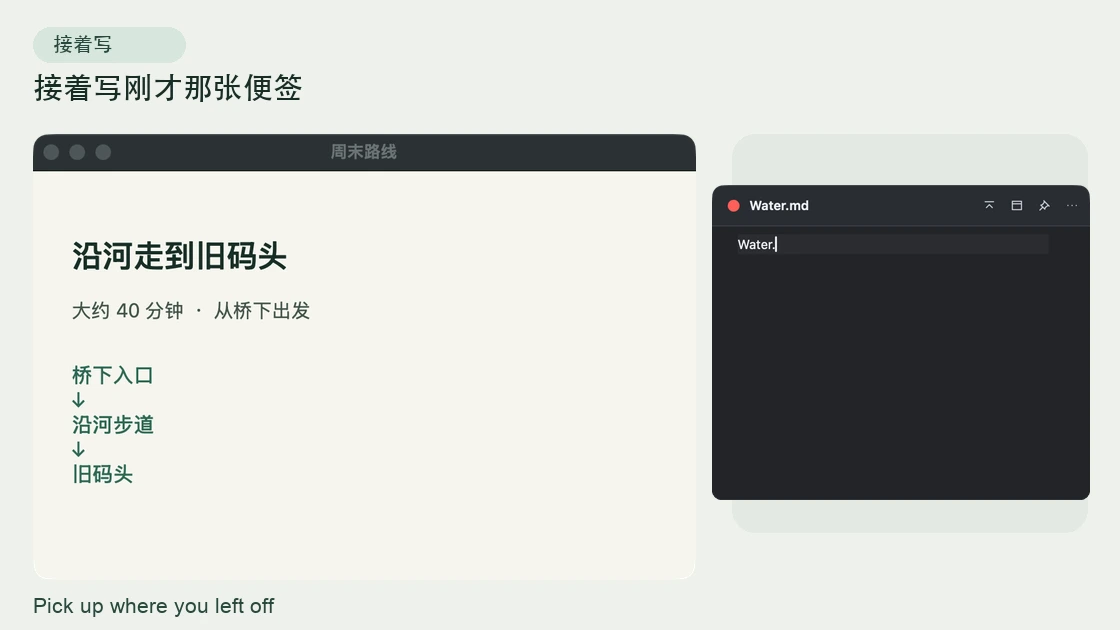
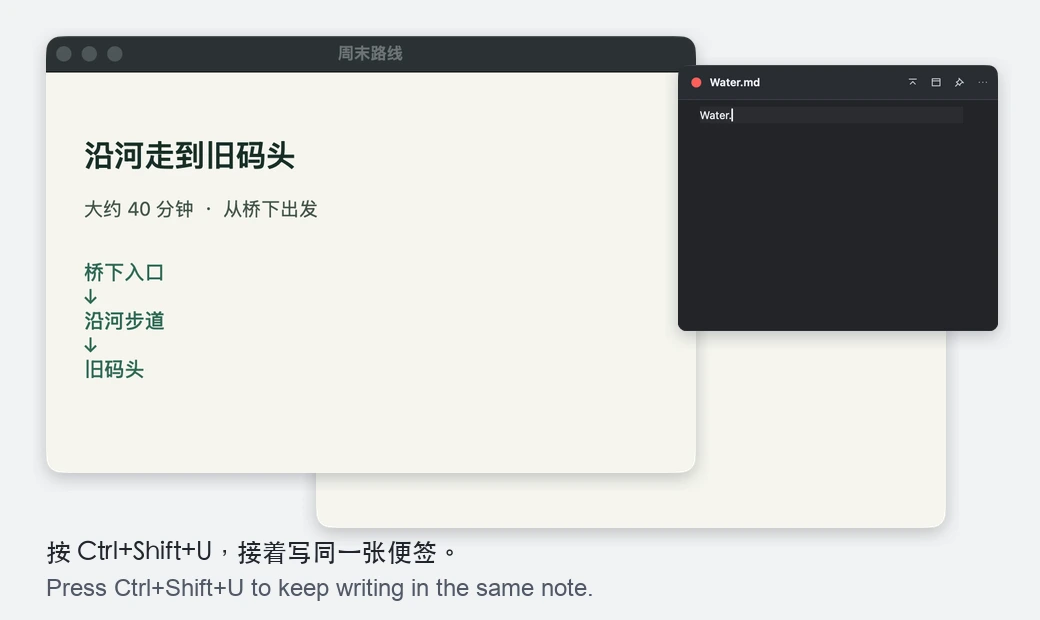
Show window focus and shortcuts in the note demo

Changed region(s): [[0.0308, 0.0306, 0.9846, 0.7968], [0.0308, 0.8274, 0.8923, 0.9806]]

diff --git a/README.en.md b/README.en.md
@@ -30,7 +30,7 @@
 <summary>Window notes</summary>
 <picture>
   <source media="(prefers-reduced-motion: reduce)" srcset="docs/assets/window-notes.webp">
-  <img src="docs/assets/window-notes.gif" alt="A quick note opens next to a route window, hides while the user checks their messages, and comes back with the route window." width="840">
+  <img src="docs/assets/window-notes.gif" alt="Overlapping route and message windows switch places. The note hides and returns with the route window. Bilingual captions show the shortcuts." width="840">
 </picture>
 </details>
 

diff --git a/README.md b/README.md
@@ -40,7 +40,7 @@
 <summary>窗口便签</summary>
 <picture>
   <source media="(prefers-reduced-motion: reduce)" srcset="docs/assets/window-notes.webp">
-  <img src="docs/assets/window-notes.gif" alt="在路线窗口旁打开便签。切到消息窗口时便签隐藏，回到路线窗口后再次显示。" width="840">
+  <img src="docs/assets/window-notes.gif" alt="路线与消息窗口重叠。切到消息时便签隐藏，切回路线时便签重新显示。中英文字幕标注快捷键。" width="840">
 </picture>
 </details>
 
